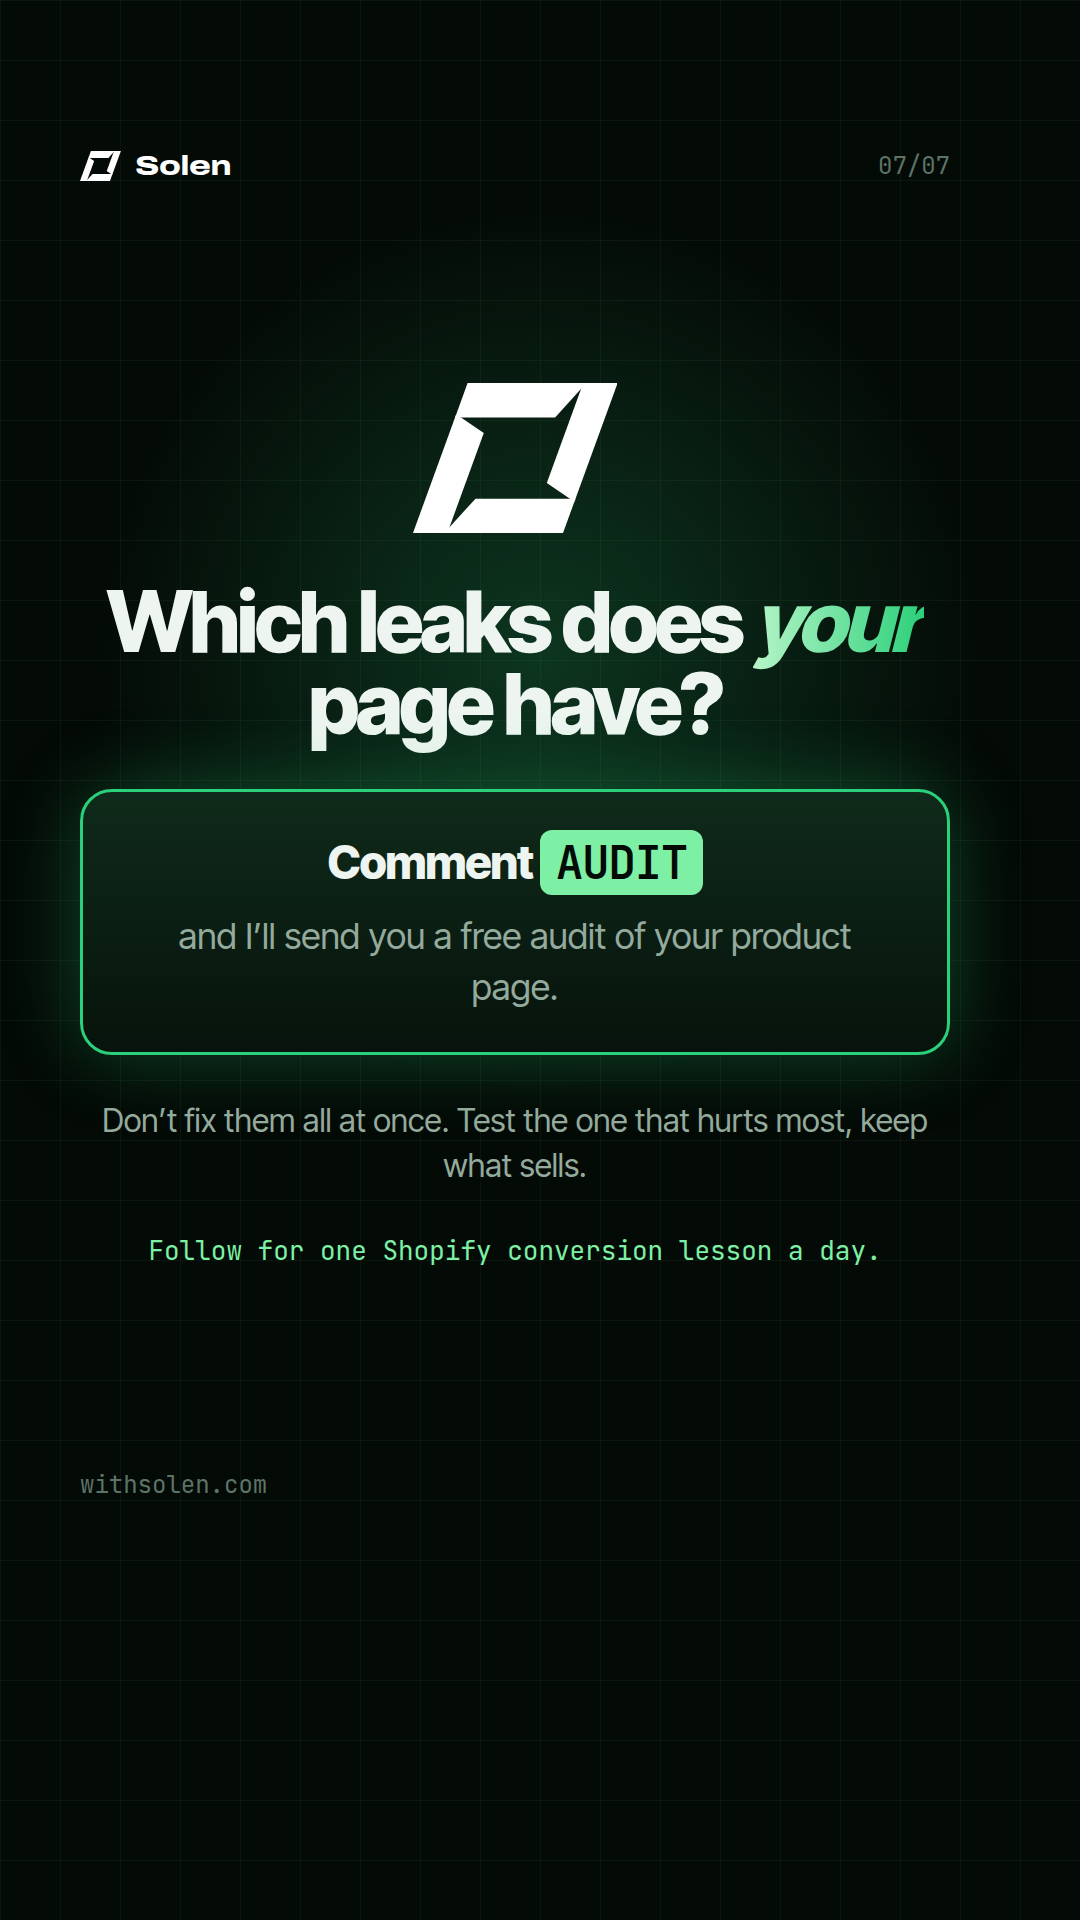
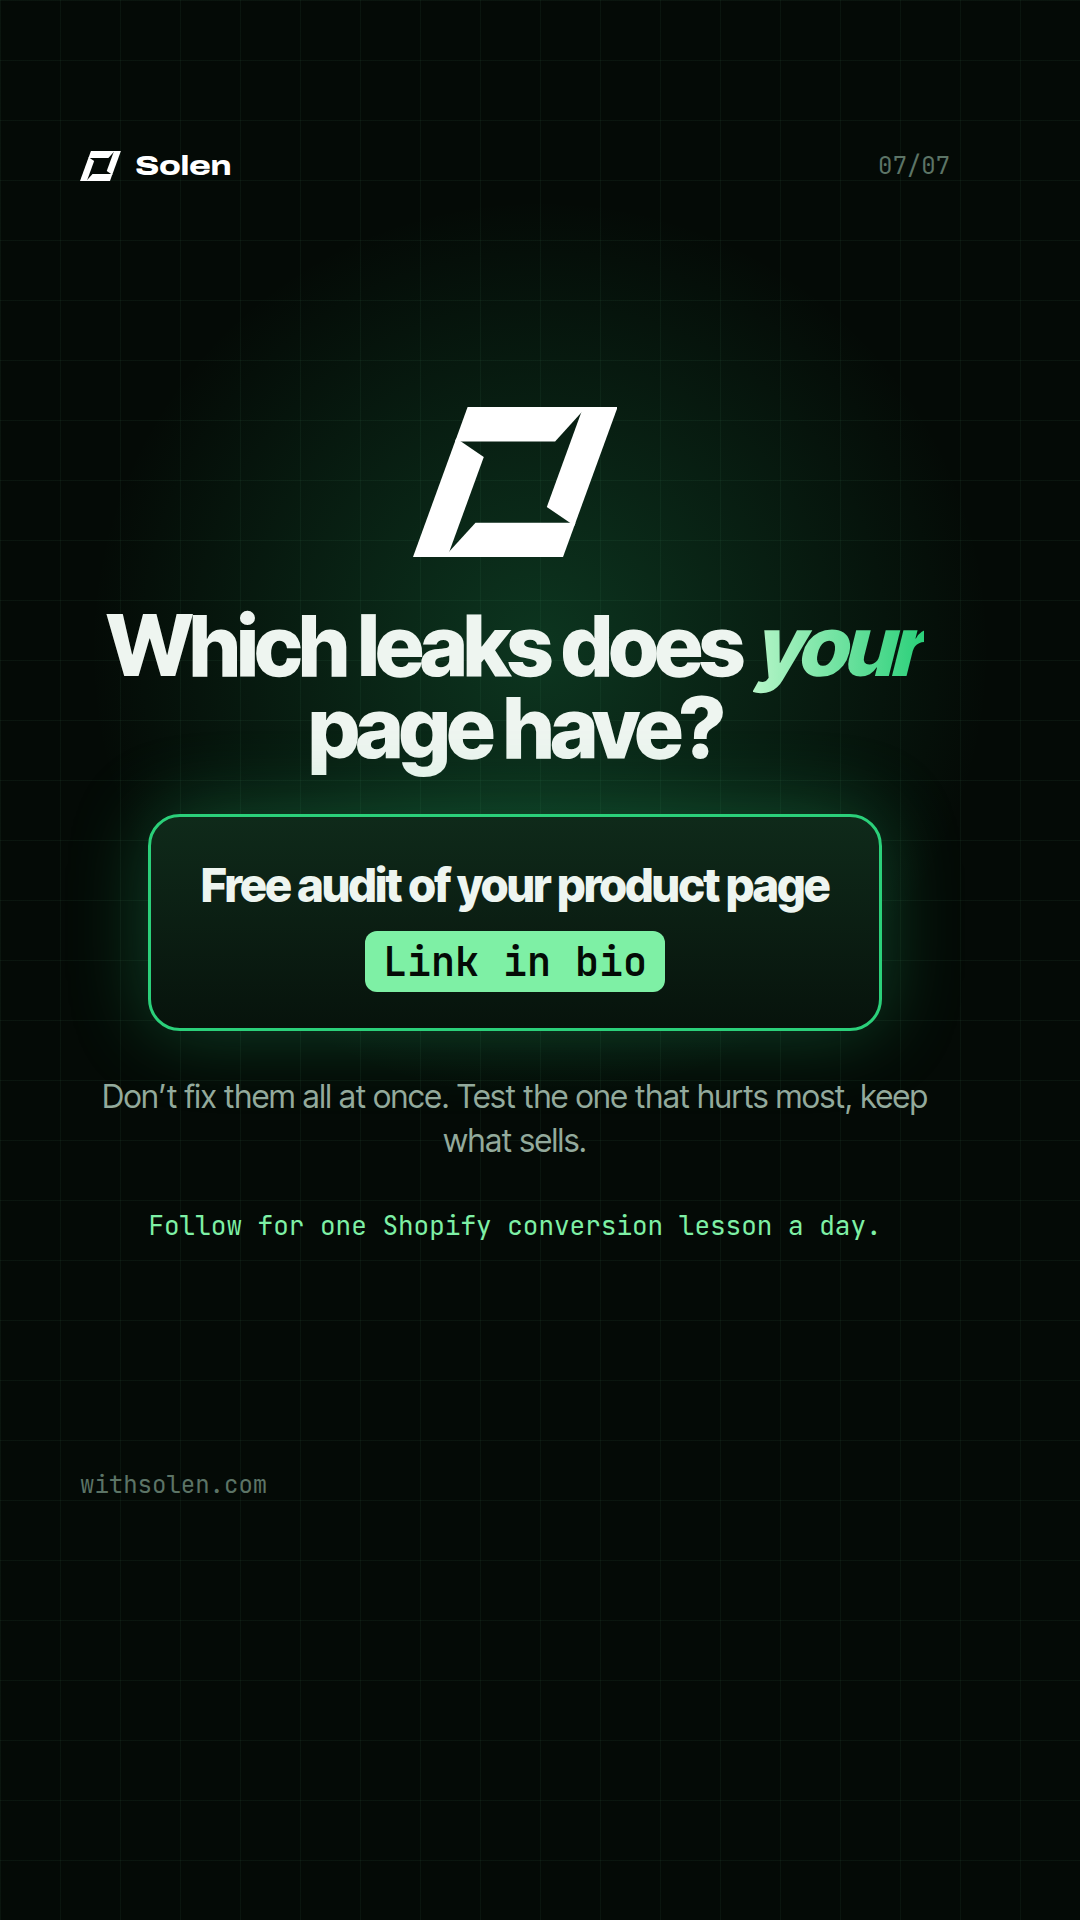
TikTok carousel CTA: link in bio instead of comment AUDIT
Claude-Session: https://claude.ai/code/session_01BHXAVJFnX9CQrySXqS91xj

diff --git a/design/social/RULES.md b/design/social/RULES.md
@@ -6,7 +6,7 @@ Apply to every Instagram, TikTok and X post. No exceptions.
 2. **Carousels: 7 slides max** (6 is fine). Hook, value slides, CTA.
 3. **English only.**
 4. **Solen visual identity**: dark fir background (#040A06), tilted rotating frame logo, Inter Tight / Archivo Expanded / JetBrains Mono, green accents (#2BD07A, #7EF0A5).
-5. **CTA on the last slide**: "Comment AUDIT and I'll send you a free audit of your product page."
+5. **CTA on the last slide**: Instagram: "Comment AUDIT and I’ll send you a free audit of your product page." TikTok: "Free audit of your product page. Link in bio."
 6. **No invented numbers**: no revenue claims, no "+X% conversion", no fake reviews. Present fixes as things to test, not guaranteed results.
 7. **Two formats per carousel**: `ig/` 1080x1350 (4:5) and `tt/` 1080x1920 (9:16). On TikTok, keep text out of the bottom 420 px and the right 130 px (covered by the app UI).
 8. **Captions, two versions per post:**
